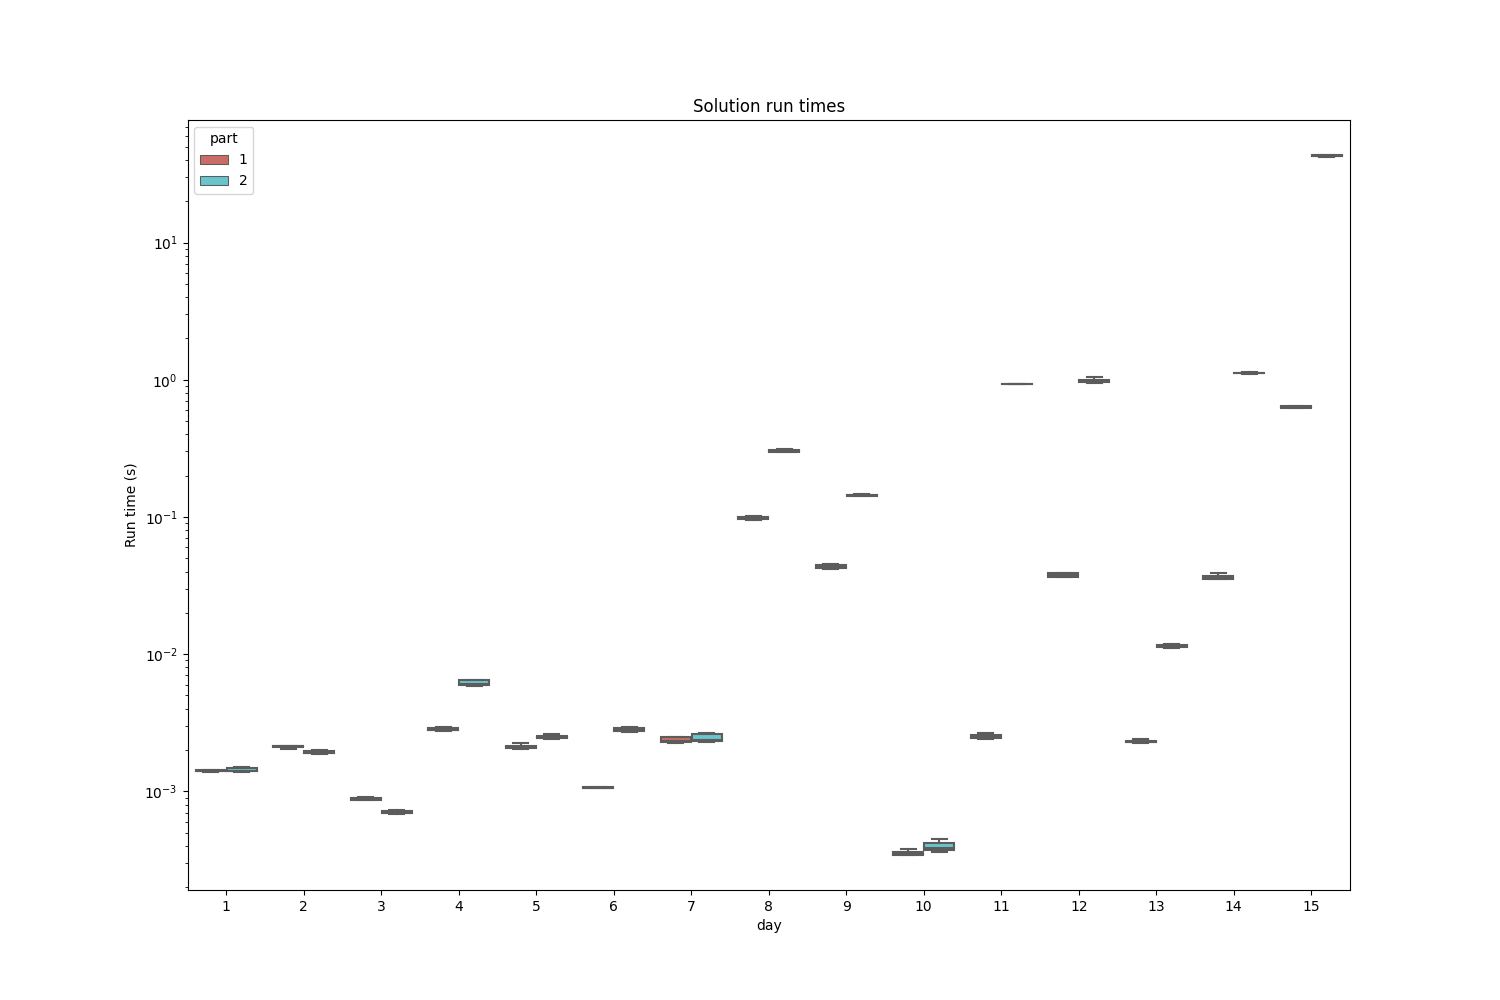
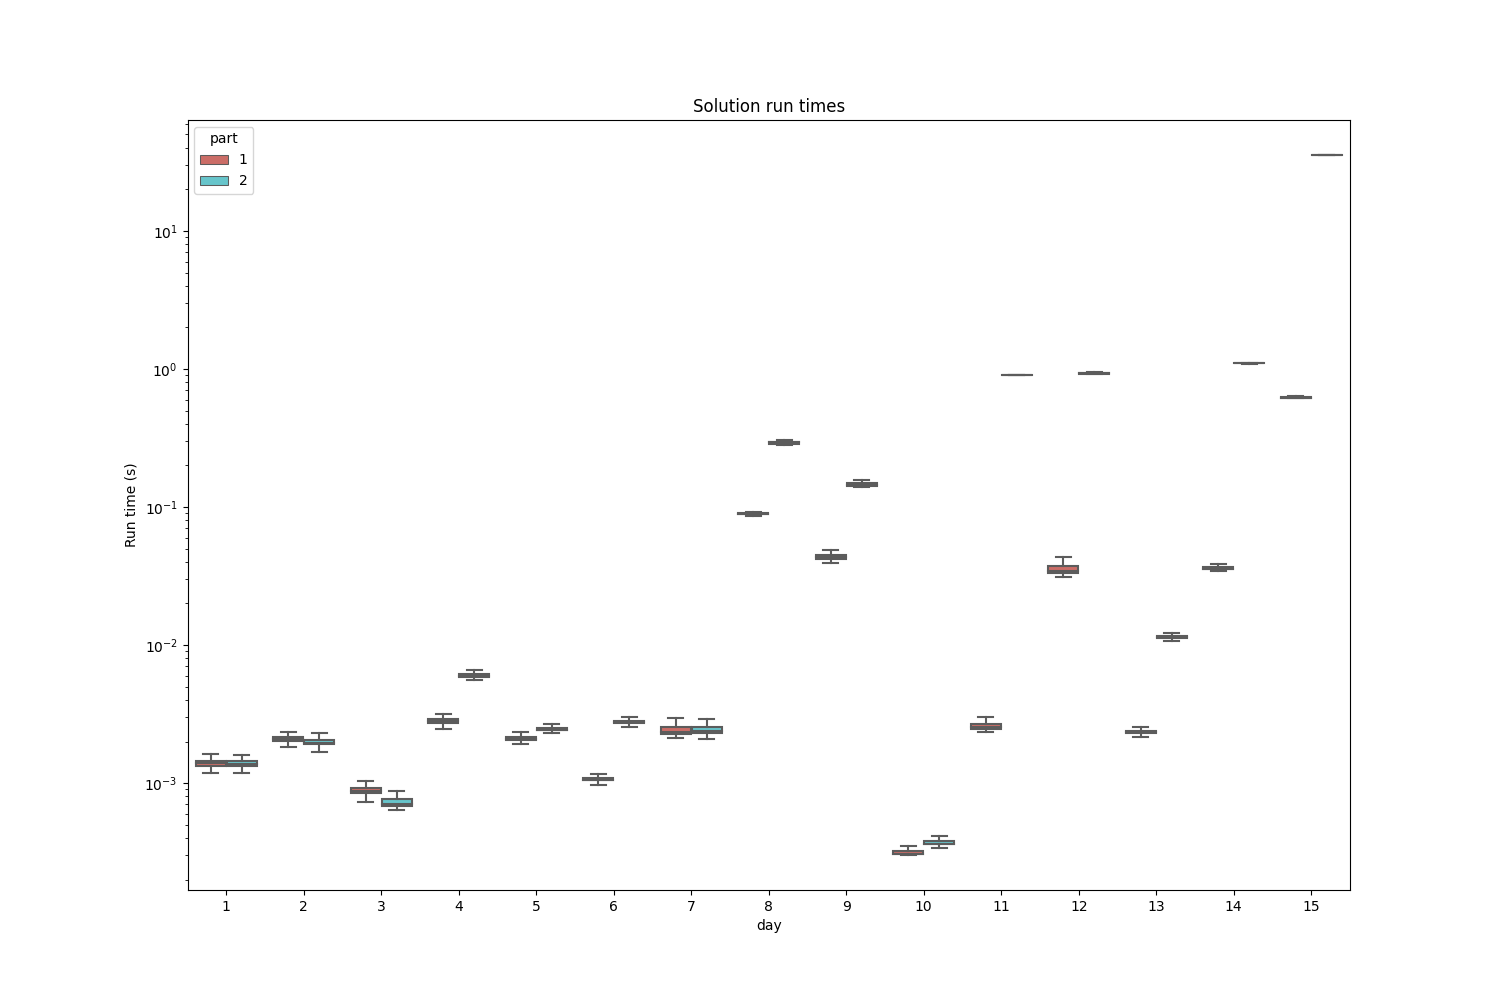
Day 15 optimisation (#25)
* improve day 15

* improve day 15

* ran benchmarking

diff --git a/aoc/day_15.py b/aoc/day_15.py
@@ -104,7 +104,7 @@ def part_two(file_path: str, max_val=4000000) -> int:
     manhattan_dist = np.diff(data, axis=1)[:, 0]
     manhattan_dist = np.abs(np.real(manhattan_dist)) + np.abs(np.imag(manhattan_dist))
     # initialise counter object
-    counter = Counter()
+    counter_data = []
     # for each pair
     for i in range(len(data)):
         # calculate y values of perimeter
@@ -138,21 +138,11 @@ def part_two(file_path: str, max_val=4000000) -> int:
             )
         ]
         # append all values
-        counter.update(
-            np.concatenate([x_min, x_max]) + 1j * np.concatenate([y_range, y_range])
-        )
-    # filter on all coords that occur 4+ times
-    co_ords = np.array([key for key, value in counter.items() if value >= 4])
-    # calculate distances from all beacons
-    co_ords_grid, sensors = np.meshgrid(co_ords, data[:, 0])
-    coord_sensor_distance = co_ords_grid - sensors
-    coord_sensor_distance = np.abs(np.real(coord_sensor_distance)) + np.abs(
-        np.imag(coord_sensor_distance)
-    )
-    # get manhattan distance for each coord
-    _, man_dist = np.meshgrid(co_ords, manhattan_dist)
-    # ensure all are outside manhattan distance
-    free_space = co_ords[(coord_sensor_distance > man_dist).all(axis=0)][0]
+        counter_data.append(co_ords)
+
+    counter_data = np.concatenate(counter_data)
+    counter = Counter(counter_data)
+    free_space = counter.most_common(1)[0][0]
     # return calc value of free space
     return np.real(free_space) * 4000000 + np.imag(free_space)
 

diff --git a/benchmark.py b/benchmark.py
@@ -10,9 +10,16 @@ import seaborn as sns
 import aoc
 
 
-def benchmark(func: callable, file_path: str, n=10) -> list:
+def benchmark(func: callable, file_path: str, seconds=3) -> list:
 
-    return [time_function(func, file_path) for _ in range(n)]
+    times = []
+
+    start = time.time()
+
+    while time.time() - start < seconds:
+        times.append(time_function(func, file_path))
+
+    return times
 
 
 def time_function(func: callable, file_path: str) -> float:
@@ -35,19 +42,19 @@ def get_modules():
     return module_dict
 
 
-def run_benchmarks(n=10):
+def run_benchmarks(seconds=3):
 
     module_dict = get_modules()
 
     for key, value in tqdm(module_dict.items()):
-        module_dict[key] = benchmark(*value, n=n)
+        module_dict[key] = benchmark(*value, seconds=seconds)
 
-    return pd.DataFrame(module_dict)
+    return pd.DataFrame.from_dict(module_dict, orient="index")
 
 
 def save_figure(df):
 
-    df = df.melt(var_name="function", value_name="runtime")
+    df = df.T.melt(var_name="function", value_name="runtime").dropna()
     df["day"] = df["function"].str.slice(4, 6).apply(int)
     df["part"] = df["function"].str.slice(-1).apply(int)
 
@@ -65,5 +72,5 @@ def save_figure(df):
 
 
 if __name__ == "__main__":
-    df = run_benchmarks(n=10)
+    df = run_benchmarks(seconds=3)
     save_figure(df)
